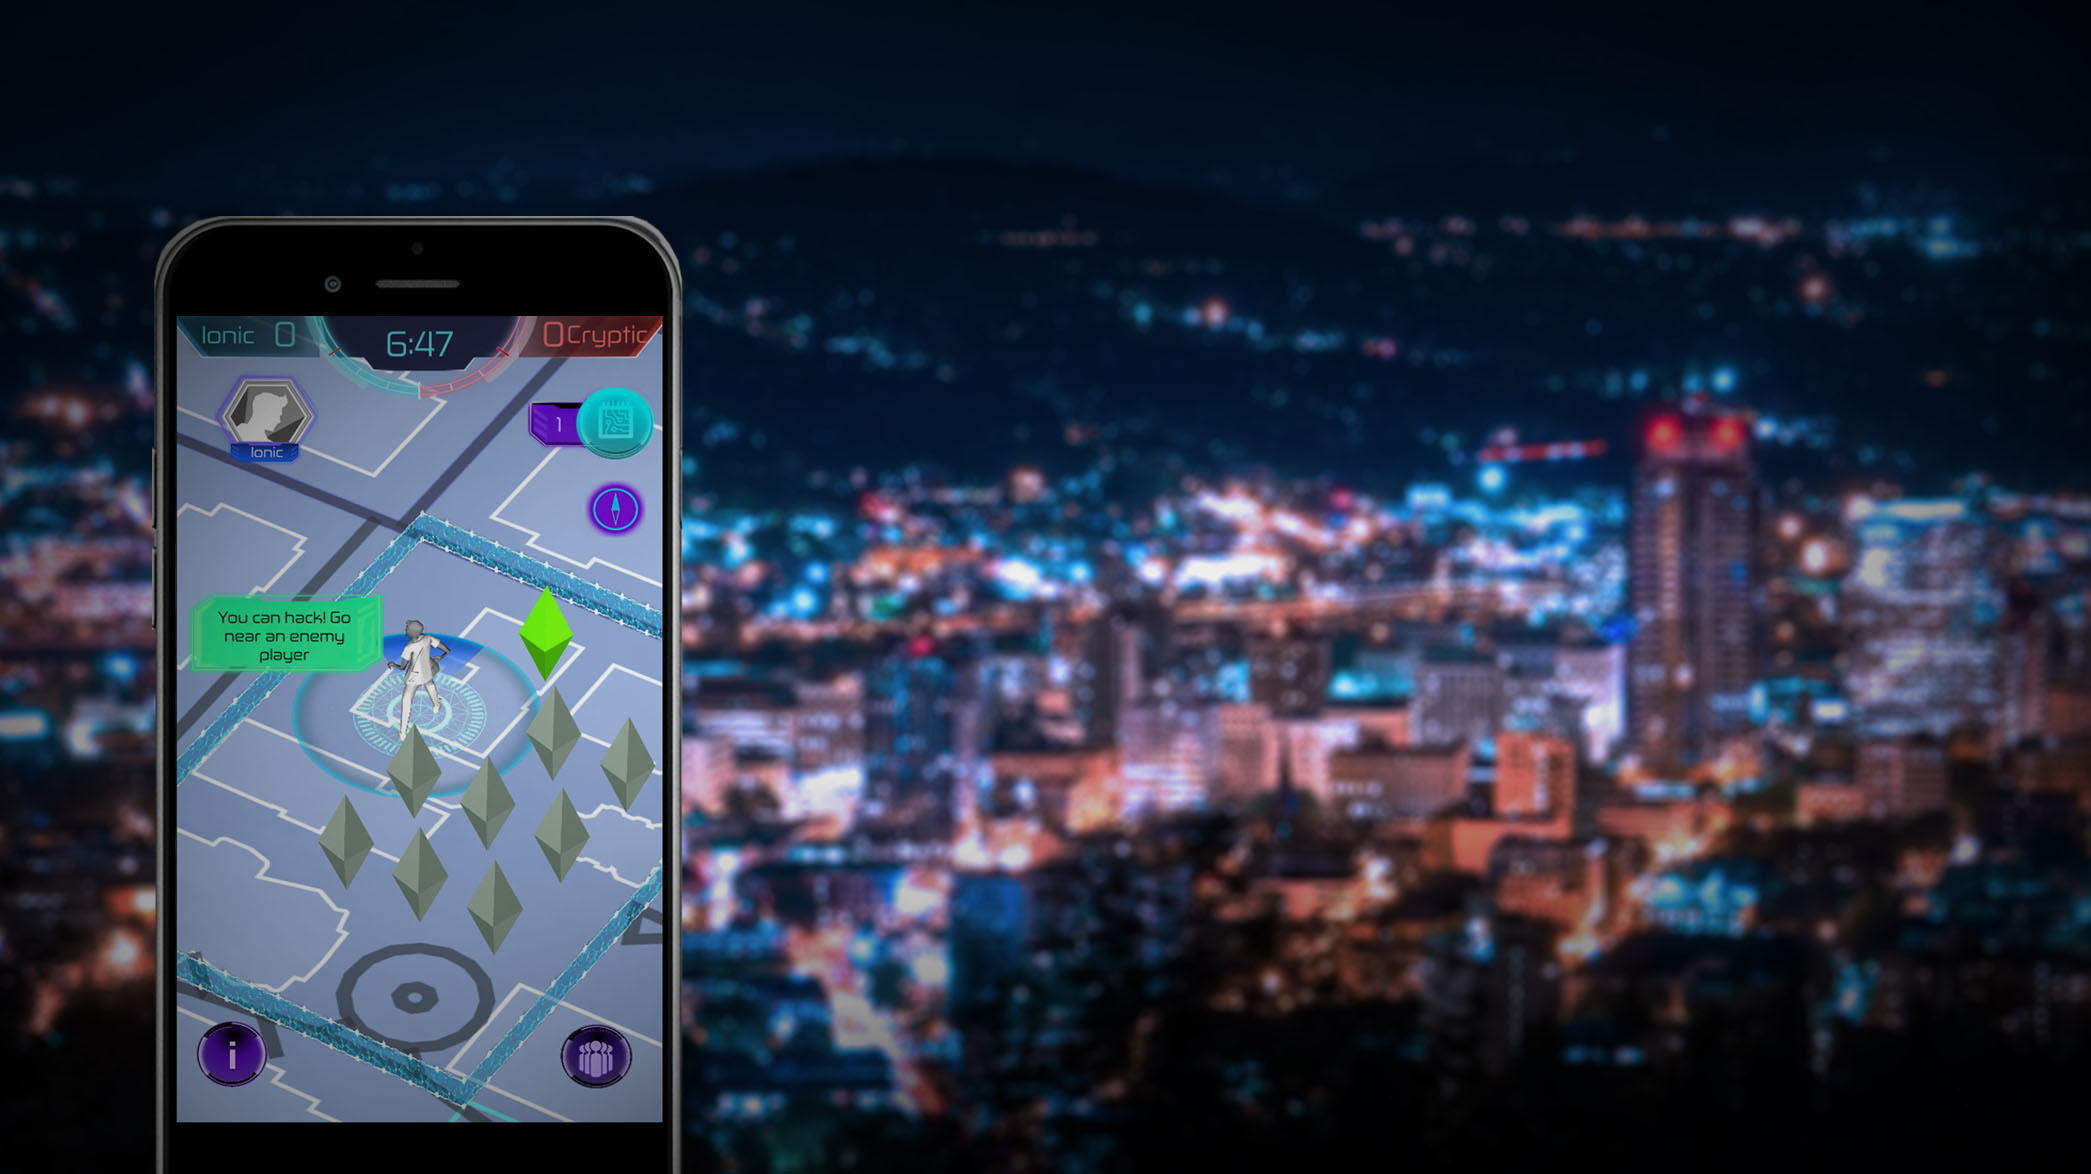
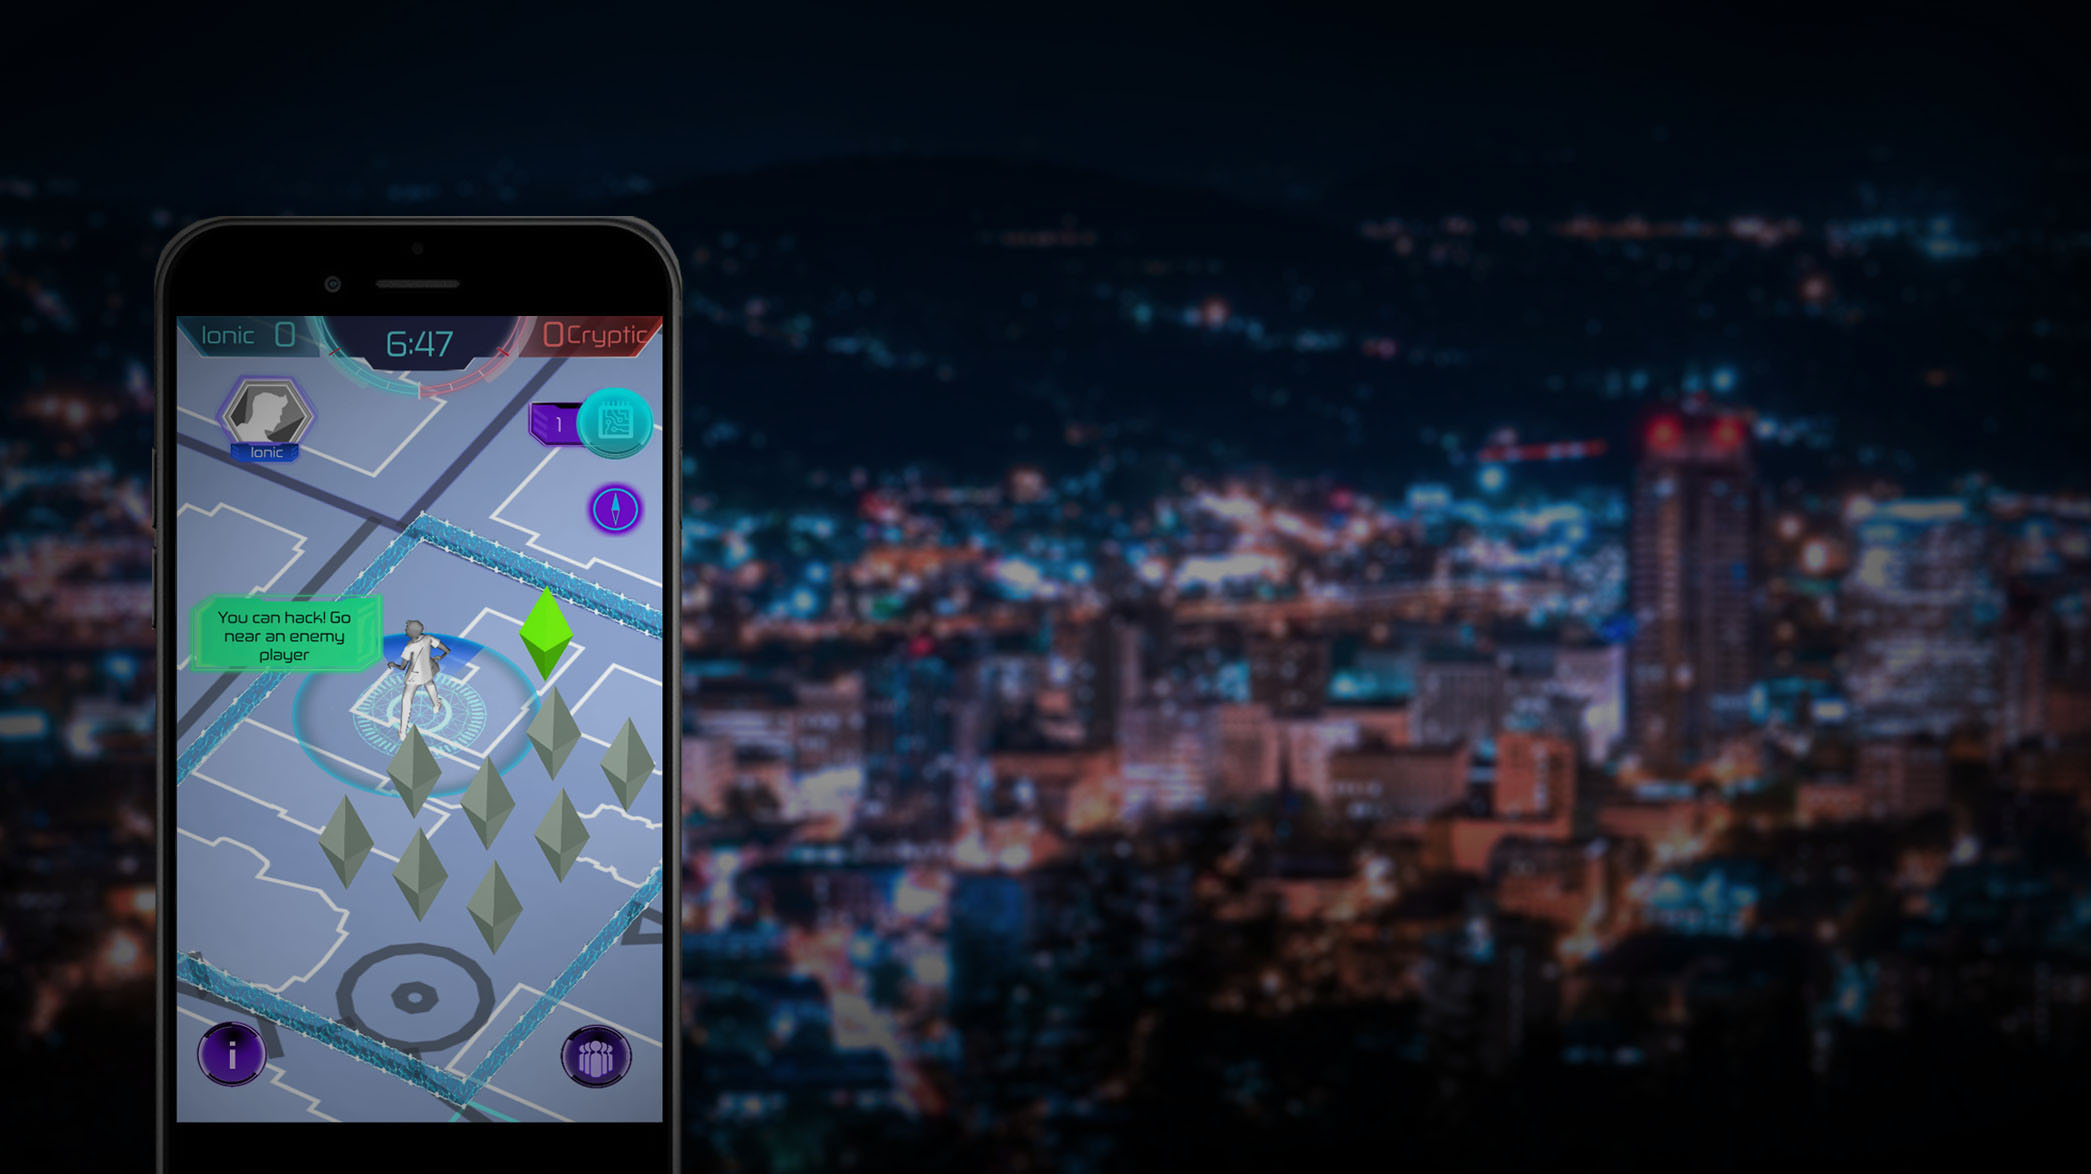
page break and image darker for hack the planet

diff --git a/index.html b/index.html
@@ -152,9 +152,10 @@
 							
 									<h1>Domain</h1>
 									<p>Video games meet real life in DOMAIN (formerly HACKER): a mobile secret-identity game, mapped to your real-time GPS location.
-Find your team.
-Discover your enemies.
-Attack them through stealth, speed, and deception!
+									</p> 
+									<p>Find your team.</p>
+<p>Discover your enemies.</p>
+<p>Attack them through stealth, speed, and deception!
 </p>
 
 						<div class="poster">
